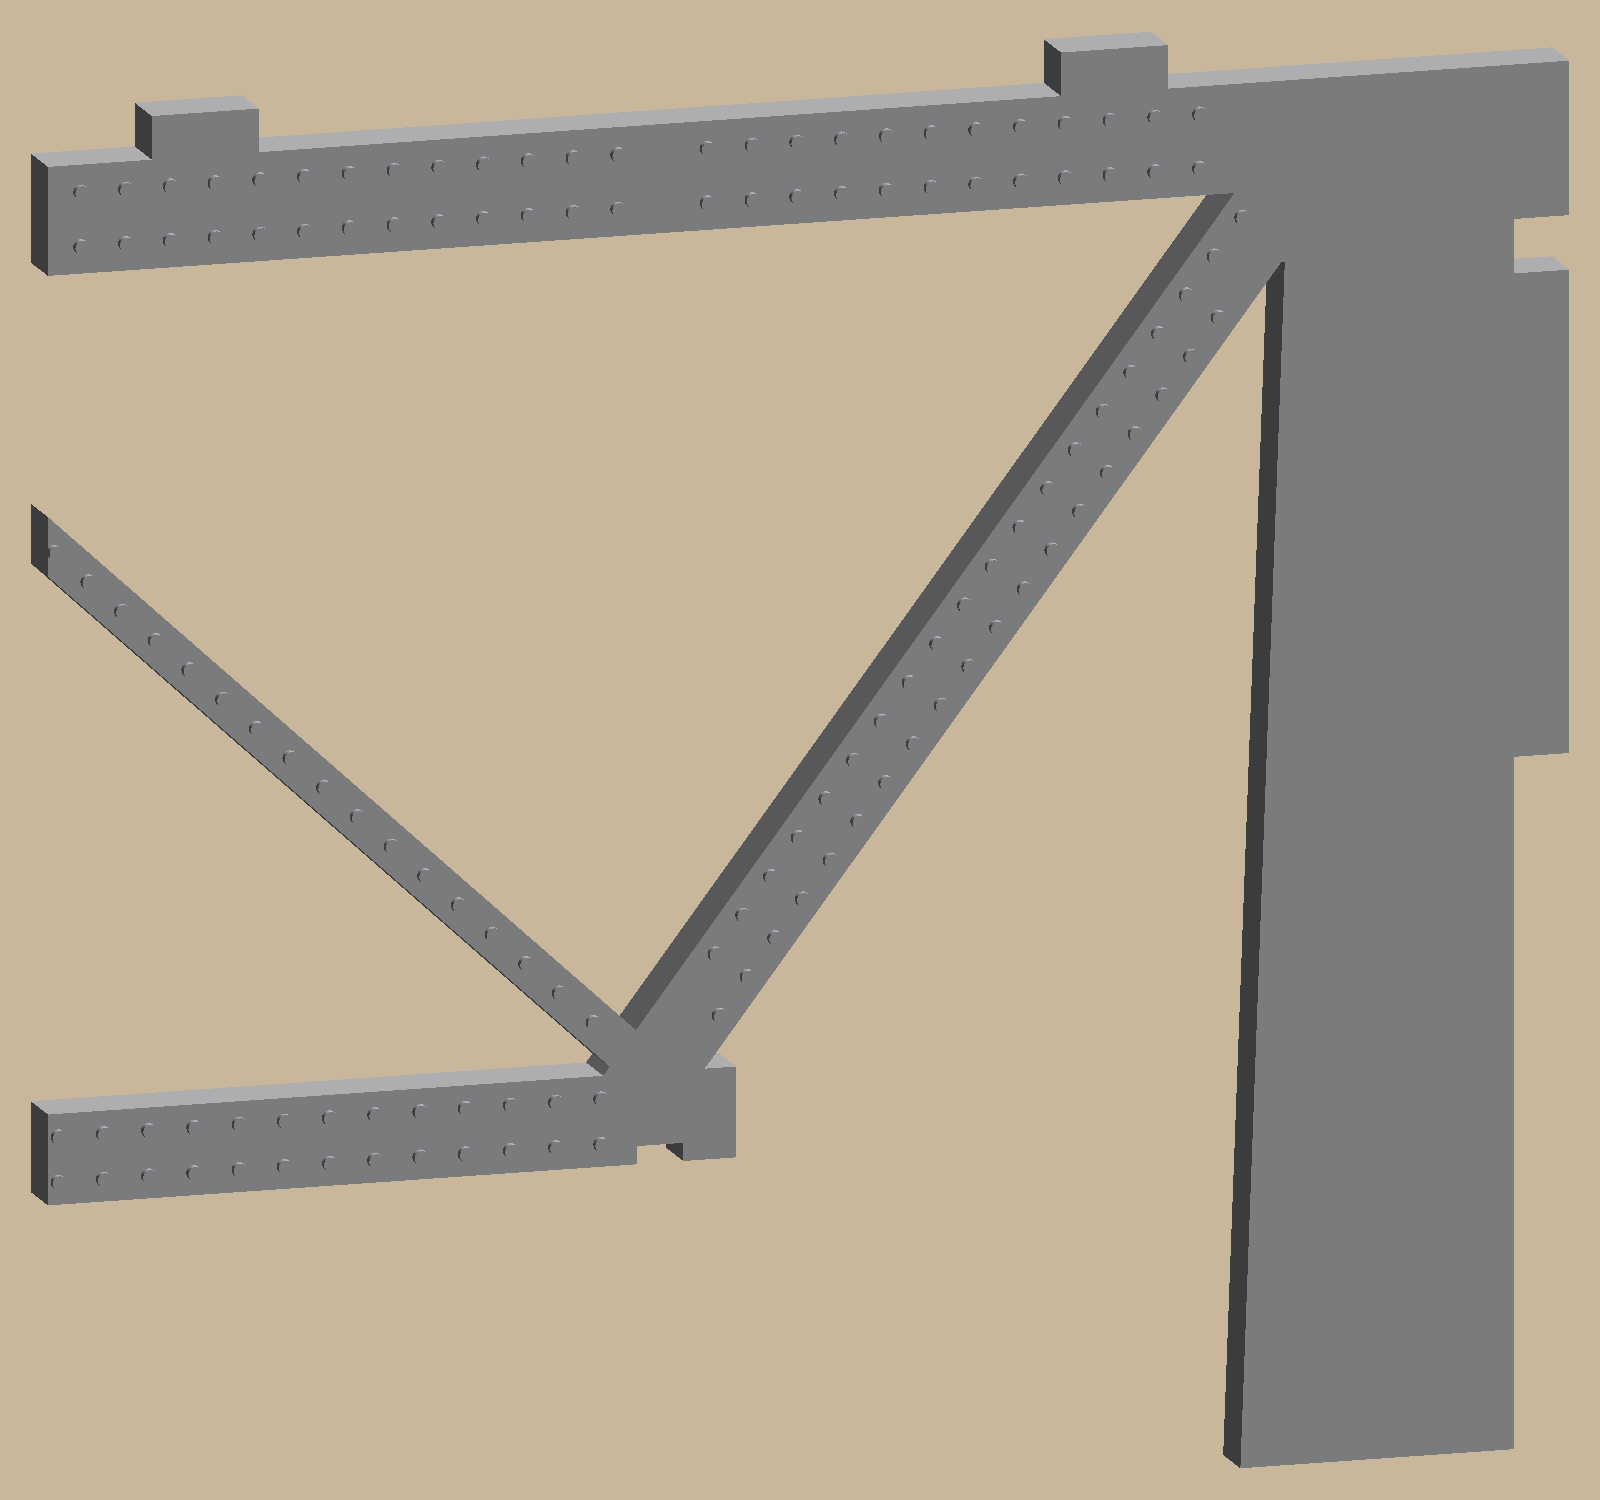
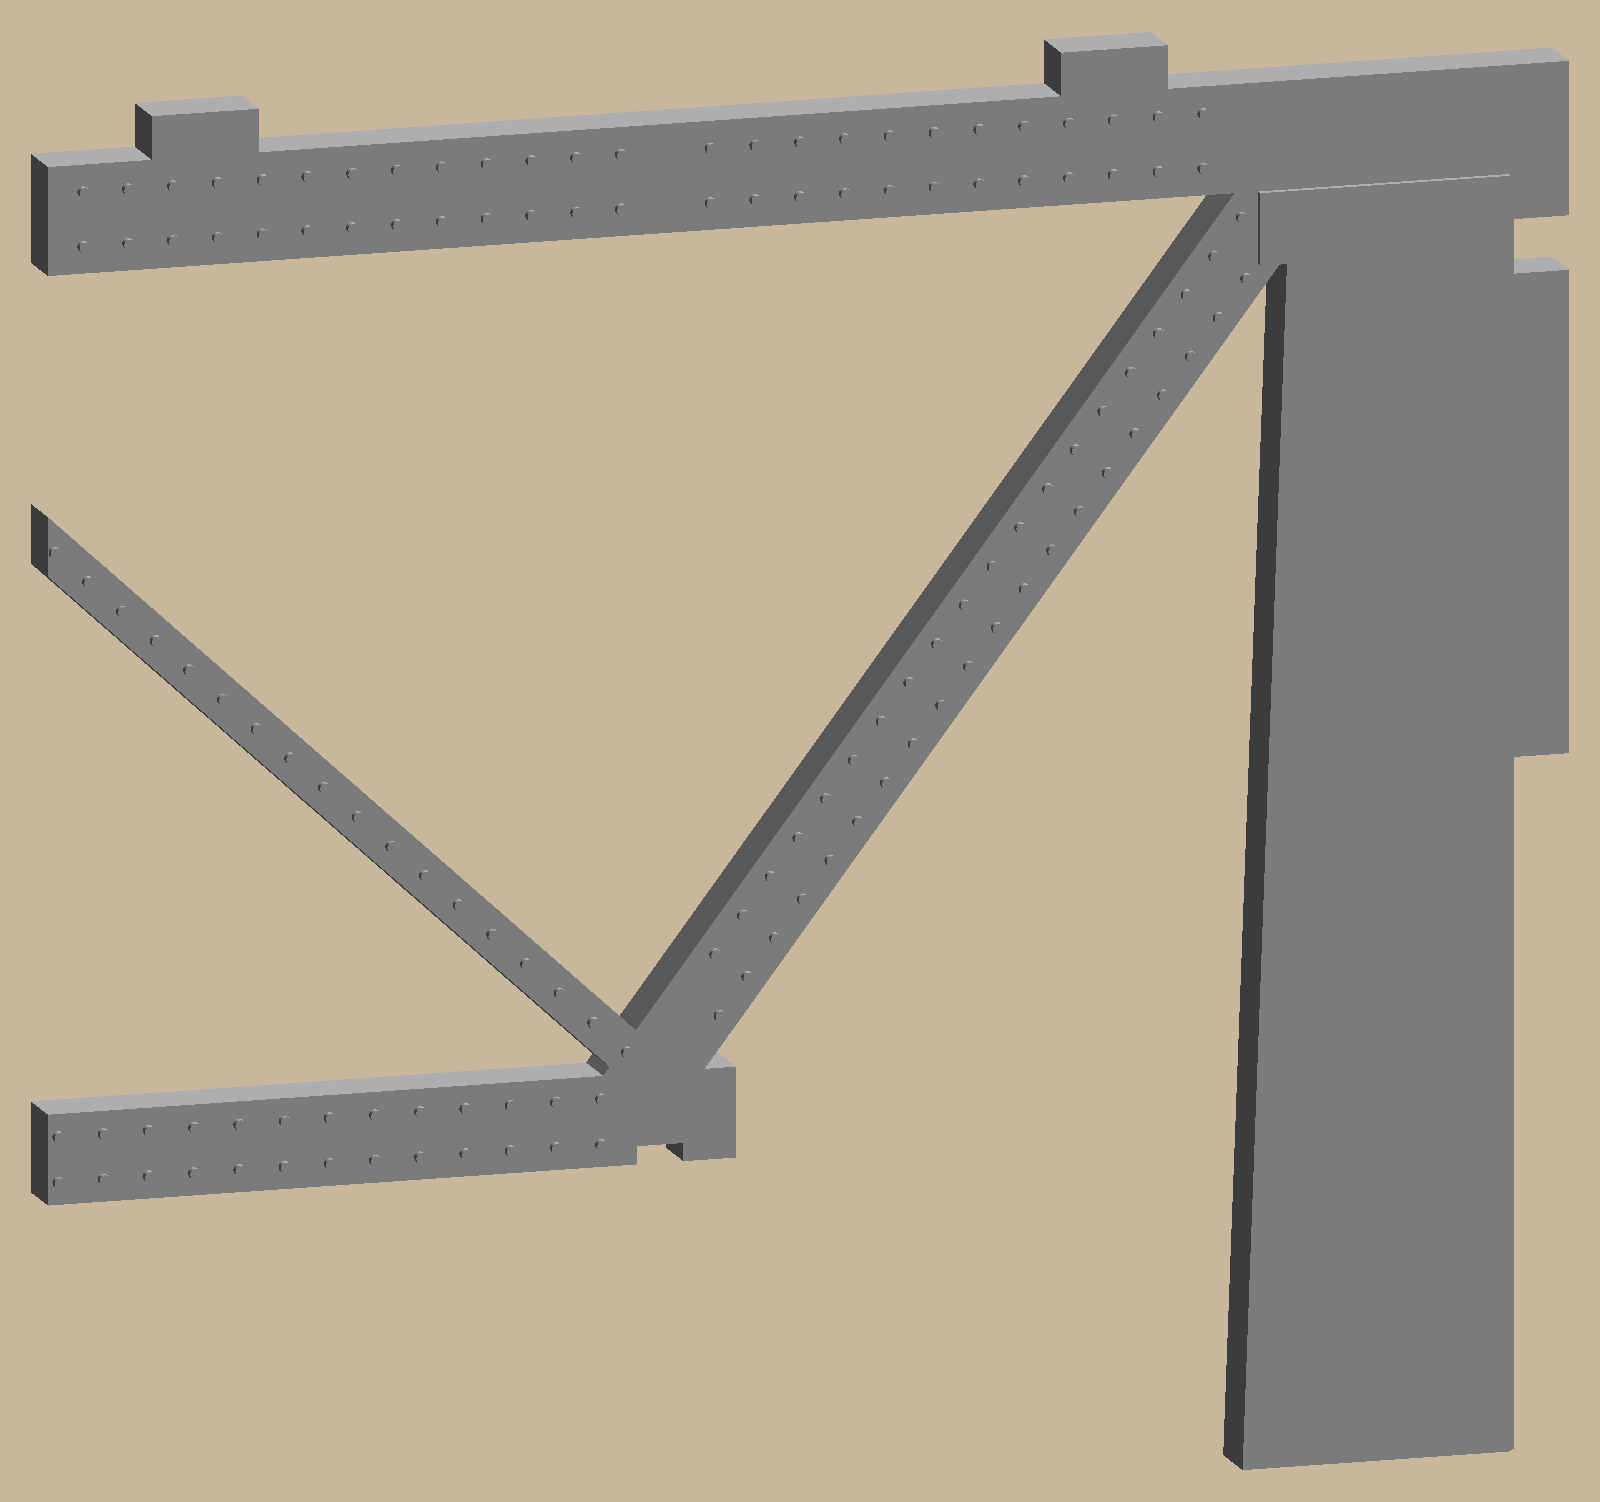
Railroad: fit-test picks (keystone, tab slots, 0.6 mm rivets) and a latch coupon
From the first fit-test print (2026-10-26):
- Keystone socket: variant 1, no clearance (fit_key; 0.05 and 0.10 were loose). README: key bed side to
  the panel's bed side.
- Tie-ladder tab slots: variant 1, 0.10 mm (fit_tab). Grooves, brackets and rods keep fit_slide until tried.
- Rivet heads 0.6 mm (the 0.8 and 1.0 strips came out rough).
- The coupon's latch flexed so much the stub fell out: `build latch-test` makes a latch coupon with the
  spring slot at 40/25/15 mm/none (latch_finger_len = 0 drops it) and two pier stubs.

diff --git a/examples/near-ceiling-track/tests/test_fit_test.py b/examples/near-ceiling-track/tests/test_fit_test.py
@@ -36,9 +36,46 @@ def test_rivet_strips_carry_two_rows_of_heads_of_their_size(k):
     assert bb.max.Z == pytest.approx(P.panel_t + P.printer.layers(P.rivet_h))
 
 
-def test_rivet_sizes_bracket_the_trusses():
-    assert min(fit_test.RIVET_SIZES) < P.rivet_d < max(fit_test.RIVET_SIZES)
-    assert P.rivet_d in fit_test.RIVET_SIZES
+def test_the_parts_use_the_variants_picked_from_the_print():
+    """2026-10-26 fit test: keystone 1, tab slot 1, rivets 1 (0.6 mm: the larger heads didn't come out smooth)."""
+    assert P.fit_key == fit_test.KEY_FITS[0]
+    assert P.fit_tab == fit_test.SLOT_FITS[0]
+    assert P.rivet_d == fit_test.RIVET_SIZES[0]
+
+
+def test_tie_ladder_tab_slot_is_the_picked_fit():
+    """Across the ladder, a tab slot is the truss panel plus fit_tab."""
+    from build123d import Align, Box, Pos
+    from hotrain import layout as L
+    from hotrain.params import INCH
+    from hotrain.parts import tie_ladder
+    bays = [16 * INCH]
+    seg = L.segments(P, bays)[1]
+    lad = tie_ladder.make(P, bays, seg)
+    x = next(x for x in L.tab_xs(P, bays) if seg.x_start + 5 < x < seg.x_end - 5) - seg.x_start
+    y_rail = max(P.rail_ys) + P.tie_l / 2  # the slot sits under the rail, in the runner
+    probe = Pos(x - 0.05, y_rail - 5, 0.3) * Box(0.1, 10, 0.2, align=(Align.MIN,) * 3)
+    pieces = sorted((s.bounding_box() for s in (lad & probe).solids()), key=lambda b: b.min.Y)
+    gaps = [b.min.Y - a.max.Y for a, b in zip(pieces, pieces[1:])]
+    assert min(gaps, key=lambda g: abs(g - P.panel_t - P.fit_tab)) == pytest.approx(P.panel_t + P.fit_tab, abs=0.01)
+
+
+def test_keystone_socket_is_the_picked_fit():
+    """At the panel edge the socket opens exactly the key's waist plus fit_key each side."""
+    from dataclasses import replace
+    from build123d import Align, Box, Pos
+    from hotrain import layout as L
+    from hotrain.params import INCH
+    from hotrain.parts import arch_half, keystone
+    D = replace(P, run_style="deck_truss")
+    b = 16 * INCH
+    part = arch_half.make(replace(D, rivet_d=0.0, pier_relief=0.0), b)
+    h, z = L.half_len(b), keystone.key_z(D) + D.pier_depth
+    probe = Pos(h - 0.06, z - 10, 0.5) * Box(0.05, 20, 1, align=(Align.MIN,) * 3)
+    pieces = sorted((s.bounding_box() for s in (part & probe).solids()), key=lambda bb: bb.min.Y)
+    gap = pieces[1].min.Y - pieces[0].max.Y
+    k = keystone.key_params(D)
+    assert gap == pytest.approx(k.key_waist + 2 * D.fit_key, abs=0.05)
 
 
 

diff --git a/examples/near-ceiling-track/hotrain/parts/fit_test.py b/examples/near-ceiling-track/hotrain/parts/fit_test.py
@@ -18,6 +18,7 @@ ROD_SEAT_FITS = (0.1, 0.2, 0.3)  # clearance of the corner deck's rod grooves on
 RIVET_SIZES = (0.6, 0.8, 1.0)  # deck-truss rivet head diameters: smaller -> larger (rivet_d is the middle one)
 RIVET_STRIP = (40.0, 10.0)  # strip length, width
 LATCH_DEPTH = 45.0
+LATCH_SLOTS = (40.0, 25.0, 15.0, 0.0)  # latch coupon: spring slot length per variant; 1 = today's, 4 = none
 LATCH_NOTCH = 1.0  # the coupon's short latch sample keeps a shallow pier notch
 
 
@@ -58,13 +59,26 @@ def key(p: Params) -> Part:
     return keystone.make(p)
 
 
-def latch_block(p: Params) -> Part:
-    """A short deck block with one pier slot and the latch, depth LATCH_DEPTH."""
+def latch_block(p: Params, n: int = 0) -> Part:
+    """A short deck block with one pier slot and the latch, depth LATCH_DEPTH; n notches on its bottom edge."""
     sw = bracket.slot_w(p)
     y0, y1 = -sw / 2 - 6, sw / 2 + p.latch_finger_w + p.latch_relief + 4
     cuts, hook = bracket.slots_and_latch(p, -LATCH_DEPTH + LATCH_NOTCH, (0.0,))
-    prof = (rect(y0, y1, -LATCH_DEPTH - 4, 0) - cuts) + hook
+    prof = (rect(y0, y1, -LATCH_DEPTH - 4, 0) - cuts - marks(n, y0 + 1.0, -LATCH_DEPTH - 4)) + hook
     return extrude(Pos(-y0, LATCH_DEPTH + 4) * prof, p.bracket_t)
+
+
+def latch_variant(p: Params, slot: float, n: int) -> Part:
+    """The latch with a spring slot `slot` mm long (0 = none), n notches."""
+    return latch_block(replace(p, latch_finger_len=slot), n)
+
+
+def latch_coupon(p: Params = P) -> Compound:
+    """The latch coupon: the LATCH_SLOTS variants (1-4 notches) and two pier stubs, flat on one bed."""
+    pieces = [Pos(22.0 * i, 0, 0) * latch_variant(p, slot, i + 1) for i, slot in enumerate(LATCH_SLOTS)]
+    x = 22.0 * len(LATCH_SLOTS) + 4
+    pieces += [Pos(x + 28.0 * k, 0, 0) * latch_pier(p) for k in range(2)]
+    return Compound(children=pieces)
 
 
 def latch_pier(p: Params) -> Part:
@@ -112,7 +126,7 @@ def make(p: Params = P) -> Compound:
     for i, f in enumerate(KEY_FITS):
         pieces.append(Pos(110 + 22 * i, 0, 0) * key_block(p, f, i + 1))
     pieces.append(Pos(110, 35, 0) * key(p))
-    pieces.append(Pos(60, 60, 0) * latch_block(p))
+    pieces.append(Pos(60, 60, 0) * latch_block(p))  # (the latch coupon tries spring-slot lengths)
     pieces.append(Pos(110, 60, 0) * latch_pier(p))
     for i, f in enumerate(ROD_SEAT_FITS):
         pieces.append(Pos(180 + 25 * i, 0, 0) * rod_seat_sample(p, f, i + 1))

diff --git a/examples/near-ceiling-track/hotrain/build.py b/examples/near-ceiling-track/hotrain/build.py
@@ -15,6 +15,7 @@
     uv run python -m hotrain.build starter --run-style deck_truss   # out/starter: one 16" bay + fit-test coupon
     uv run python -m hotrain.build wire-test    # out/wire_test: stainless wire rail curve test plates (0.08 mm layers)
     uv run python -m hotrain.build makerworld   # out/makerworld: one sliced project per print profile, to upload
+    uv run python -m hotrain.build latch-test   # out/latch_test: four latch spring-slot lengths + two pier stubs
 Options: --out DIR (default out), --mesh (also STL), --preview (also SVG line drawings)
 """
 import argparse
@@ -258,6 +259,14 @@ def cmd_render(p: Params, out: Path) -> list[Path]:
     return paths
 
 
+def cmd_latch_test(p: Params, out: Path) -> Path:
+    """The latch coupon on its own plate: out/latch_test/."""
+    from hotrain.plates import Plate
+    d = out / "latch_test"
+    write_plates([Plate("latch_test", 1, [("latch_test", fit_test.latch_coupon(p))])], d, d / "plates.csv", p=p)
+    return d
+
+
 def cmd_fit_test(p: Params, out: Path, mesh: bool, preview: bool) -> None:
     export(fit_test.make(p), out, "fit_test", mesh, preview)
 
@@ -275,7 +284,7 @@ def params_from_args(a: argparse.Namespace) -> Params:
 def main(argv: list[str] | None = None) -> int:
     ap = argparse.ArgumentParser(prog="hotrain.build", description=__doc__.splitlines()[0])
     ap.add_argument("command", choices=["all", "parts", "assembly", "fit-test", "plates", "corners", "room", "show", "glb", "web",
-                                        "check", "starter", "render", "wire-test", "makerworld"])
+                                        "check", "starter", "render", "wire-test", "makerworld", "latch-test"])
     ap.add_argument("target", nargs="?", default="room", help="for show: room | run | inside | bridge | fit-test")
     ap.add_argument("--out", default="out")
     ap.add_argument("--mesh", action="store_true")
@@ -315,6 +324,9 @@ def main(argv: list[str] | None = None) -> int:
     if a.command == "starter":
         d = cmd_starter(p, out)
         print(f"wrote {d}/ (plates.csv lists what to print and how many)")
+        return 0
+    if a.command == "latch-test":
+        print(f"wrote {cmd_latch_test(p, out)}/ (one plate: latch_test)")
         return 0
     if a.command == "makerworld":
         d = cmd_makerworld(p, out)

diff --git a/examples/near-ceiling-track/tests/test_latch_test.py b/examples/near-ceiling-track/tests/test_latch_test.py
@@ -1,0 +1,43 @@
+"""Latch coupon: four pier-slot latches, identical but for the spring slot beside the finger (40 / 25 / 15 mm / none,
+marked 1-4 notches), and two pier stubs. The first fit test's latch flexed so much the stub fell out."""
+import pytest
+
+from cadkit.checks import printable_problems
+from hotrain.params import P
+from hotrain.parts import fit_test
+
+
+def test_variant_one_is_todays_latch_and_four_has_no_slot():
+    assert fit_test.LATCH_SLOTS[0] == P.latch_finger_len
+    assert fit_test.LATCH_SLOTS[-1] == 0.0
+    assert list(fit_test.LATCH_SLOTS) == sorted(fit_test.LATCH_SLOTS, reverse=True)
+
+
+def test_each_variant_cuts_its_slot_and_nothing_else():
+    """Blocks differ only by the spring slot: latch_relief wide, the variant's length deep, bracket_t thick."""
+    solid = fit_test.latch_variant(P, 0.0, 0).volume
+    for slot in fit_test.LATCH_SLOTS:
+        removed = solid - fit_test.latch_variant(P, slot, 0).volume
+        assert removed == pytest.approx(P.latch_relief * slot * P.bracket_t, rel=0.03, abs=0.01)
+
+
+def test_variants_marked_distinctly():
+    vols = [fit_test.latch_variant(P, fit_test.LATCH_SLOTS[0], n).volume for n in (1, 2, 3, 4)]
+    assert all(a - b > 0.3 for a, b in zip(vols, vols[1:]))
+
+
+def test_coupon_prints_on_one_bed():
+    c = fit_test.latch_coupon(P)
+    assert len(c.solids()) == len(fit_test.LATCH_SLOTS) + 2  # four latches, two pier stubs
+    bb = c.bounding_box()
+    assert bb.max.X <= P.bed_usable and bb.max.Y <= P.bed_usable
+    for s in c.solids():
+        assert printable_problems(s, P.printer) == []
+
+
+def test_build_writes_the_latch_plate(tmp_path):
+    from cadkit import slicers
+    from hotrain import build
+    assert build.main(["latch-test", "--out", str(tmp_path)]) == 0
+    assert (tmp_path / "latch_test" / f"latch_test{slicers.active().project_suffix}").exists()
+    assert "latch_test" in (tmp_path / "latch_test" / "plates.csv").read_text(encoding="utf-8")

diff --git a/examples/near-ceiling-track/hotrain/params.py b/examples/near-ceiling-track/hotrain/params.py
@@ -77,7 +77,7 @@ class Params:
     dt_key_head: float = 8.0
     dt_key_waist: float = 4.5
     dt_lap: float = 1.0  # members overlap so joints are areas (3MF-safe)
-    rivet_d: float = 0.8  # deck truss rivet heads on the room face: smallest round bump the 0.4 nozzle prints
+    rivet_d: float = 0.6  # deck truss rivet heads on the room face: fit-test pick (0.8 and 1.0 came out rough)
     rivet_h: float = 0.4  # two 0.2 mm layers (snapped to your layers)
     rivet_pitch: float = 2.5  # along each member row
     rivet_margin: float = 0.2  # heads stay this far inside a member's edges
@@ -220,6 +220,8 @@ class Params:
     # fits
     fit_slide: float = 0.20
     fit_snap: float = 0.05
+    fit_key: float = 0.0  # keystone in its socket: fit-test variant 1 (2026-10-26; 0.05 and 0.10 were loose)
+    fit_tab: float = 0.10  # truss tab into the tie ladder's slot: fit-test variant 1 (0.10 and 0.20 both fit)
 
     # printer: yours, from cadkit.settings (CADKIT_BED... or cadkit.toml); with nothing set, the A1's 256 x 256 mm.
     # Half spans and ladders are sized to fit bed_usable; a smaller bed fails the fit tests with the numbers.

diff --git a/examples/near-ceiling-track/hotrain/parts/arch_half.py b/examples/near-ceiling-track/hotrain/parts/arch_half.py
@@ -76,7 +76,7 @@ def deck_profile(p: Params, bay_len: float) -> Sketch:
     for u in posts[1:]:
         adds.append(rect(u - p.dt_vert_w / 2, u + p.dt_vert_w / 2, zb - lap, -tb + lap))
     more, cuts = _shared(p, bay_len)
-    cuts.append(Pos(h, keystone.key_z(p)) * butterfly(keystone.key_params(p), p.fit_snap))
+    cuts.append(Pos(h, keystone.key_z(p)) * butterfly(keystone.key_params(p), p.fit_key))
     return (Sketch() + adds + more) - cuts
 
 
@@ -105,7 +105,7 @@ def arch_profile(p: Params, bay_len: float) -> Sketch:
         adds.append(rect(u - p.post_w / 2, u + p.post_w / 2, L.rib_low(p, bay_len, u) + 1, -p.top_band_h / 2))
     more, cuts = _shared(p, bay_len)
     adds += more
-    cuts.append(Pos(h, -cd / 2) * butterfly(p, p.fit_snap))  # keystone socket
+    cuts.append(Pos(h, -cd / 2) * butterfly(p, p.fit_key))  # keystone socket
     return (Sketch() + adds) - cuts
 
 

diff --git a/examples/near-ceiling-track/hotrain/parts/bracket.py b/examples/near-ceiling-track/hotrain/parts/bracket.py
@@ -17,7 +17,8 @@ def slots_and_latch(p: Params, slot_bottom: float, ys: tuple) -> tuple[list, Ske
     cuts = [rect(y - sw / 2, y + sw / 2, slot_bottom, 1) for y in ys]
     wall = max(ys) + sw / 2  # room-side wall of the room-side slot
     relief = wall + p.latch_finger_w
-    cuts.append(rect(relief, relief + p.latch_relief, -p.latch_finger_len, 1))
+    if p.latch_finger_len > 0:  # the spring slot that lets the finger flex; 0 = a rigid latch
+        cuts.append(rect(relief, relief + p.latch_relief, -p.latch_finger_len, 1))
     zb = -p.latch_top - p.latch_win_h + 0.5
     e = p.latch_engage
     hook = poly((wall + 0.05, zb), (wall - e, zb), (wall - e, zb + 0.8), (wall + 0.05, zb + 0.8 + e))

diff --git a/examples/near-ceiling-track/hotrain/parts/tie_ladder.py b/examples/near-ceiling-track/hotrain/parts/tie_ladder.py
@@ -50,7 +50,7 @@ def bodies(p: Params, ties: list, x_start: float, x_end: float, tab_xs: list[flo
             s = 1 if y > 0 else -1
             a, b = y + s * g, y + s * (p.runner_w / 2 + 0.01)
             cuts.append(rect(nx0, nx1, min(a, b), max(a, b)))
-    tl, tw = (p.tab_len + p.fit_slide) / 2, (p.panel_t + p.fit_slide) / 2
+    tl, tw = (p.tab_len + p.fit_tab) / 2, (p.panel_t + p.fit_tab) / 2
     for x in tab_xs:
         if x_start + tl < x < x_end - tl:
             cuts += [rect(x - tl, x + tl, y - tw, y + tw) for y in p.rail_ys]

diff --git a/examples/near-ceiling-track/README.md b/examples/near-ceiling-track/README.md
@@ -73,6 +73,9 @@ A whole-room file takes a few minutes to translate.
 - Bambu A1 (256 × 256 mm bed), PETG, 0.4 mm nozzle, 0.2 mm layers, **no supports**.
 - **Print `fit_test` first.** Pick the variant of each joint (1/2/3 notches) that fits, then retune `fit_slide`,
   `fit_snap` and `rail_base_w` in `hotrain/params.py` and rebuild.
+  - `uv run python -m hotrain.build latch-test` writes a small latch coupon: four latches whose spring slot is
+    40/25/15 mm/none (1-4 notches) and two pier stubs. Pick the one that clicks and holds, and can still be
+    unlatched.
   - The three rivet strips (1/2/3 notches = 0.6/0.8/1.0 mm heads) show how the deck truss rivets come out. If
     you like another size better, set `rivet_d`; if PETG strings between the heads, fix that before printing
     panels.
@@ -122,7 +125,7 @@ uv run python -m hotrain.build wire-test   # out/wire_test: plates, plates.csv, 
 
 <img src="docs/images/rivets_closeup.png" width="45%" alt="Close-up of a deck truss end: rows of small round rivet heads along the chords, end post and diagonals; the concrete pier is bare">
 
-The deck truss has gray rivet heads on its room face: 0.8 mm dots, two layers proud, in rows along every member.
+The deck truss has gray rivet heads on its room face: 0.6 mm dots, two layers proud, in rows along every member.
 The pier stays bare, and its concrete face stands two layers proud of the steel so the two read as different
 materials. Each panel prints one normal half and one mirror-image half (`…_start`), so both halves show
 their rivets to the room. Set `rivet_d = 0` in `hotrain/params.py` for flat panels. The corner trusses have none
@@ -135,6 +138,9 @@ yet: their room face prints against the bed.
 2. **On the bench:**
    - Join each side's two truss halves with the bow-tie keys: one `arch_half_…` and one `arch_half_…_start` (its
      mirror image), **rivet side out toward the room**. Both panels of a bay are built the same way.
+   - Push each key in with its **bed side (the side that was down on the printer) on the panel's bed side** (the
+     side without rivets). Printed parts are a touch wider at the bed, so bed to bed is a tight fit; flipped, it's
+     loose.
    - Slide the cross-frames up onto both panels at the posts. They only go in from below.
    - Glue the cross-frames (and optionally the keys), making one rigid box.
 3. **Hang the box:** drop it into the brackets. The half-lap notches seat and the latches click.

diff --git a/examples/near-ceiling-track/docs/specs/2026-10-12-arch-deck-shelf-design.md b/examples/near-ceiling-track/docs/specs/2026-10-12-arch-deck-shelf-design.md
@@ -221,3 +221,16 @@ Only after this passes: batch-print the run.
   `build makerworld` slices five print profiles for one MakerWorld model: starter bay (deck truss, arch), corners
   (pony, bowstring), wire-rail test.
 
+## 15. Amendments (2026-10-26): fit-test results
+
+- **Keystone: variant 1, no clearance** (`fit_key = 0.0`; 0.05 and 0.10 were loose). The key fits tight when its bed
+  side meets the panel's bed side, and loose flipped. The README says to match bed side to bed side.
+- **Tab slots: variant 1, 0.10 mm** (`fit_tab`; 0.10 and 0.20 both fit, and the user chose the tighter).
+- Only the keystone and tab slots get their own fits. The rail grooves, brackets, cross-frames and rods keep
+  `fit_slide` (0.20) until their samples are tried: the tie-plate grooves need the rail, the rod seats a 1/4" rod.
+- **Latch:** the coupon's pier stub falls out of the fork. The user thinks the hook's size is right and the finger
+  flexes too much. A latch coupon (`build latch-test`) tries the spring slot at 40 (today's), 25 and 15 mm, and
+  none (1-4 notches), with two pier stubs. Fingers are stiffer the shorter the slot, about 1/length³. The user
+  expects PETG to give enough to unlatch even with no slot. `latch_finger_len = 0` drops the slot in the
+  brackets.
+

diff --git a/examples/near-ceiling-track/docs/specs/2026-10-13-deck-truss-design.md b/examples/near-ceiling-track/docs/specs/2026-10-13-deck-truss-design.md
@@ -187,4 +187,6 @@ plates and packing, and the bus cradle.
   layers) on the room face, so concrete and steel no longer blend. The raise stops at the top chord's underside.
   It leaves a 3.4 mm strip at the pier centerline flat, because the bracket (or a corner anchor) grips the plain
   3.2 mm pier there and covers that strip anyway. `pier_relief = 0` turns it off.
+- **Rivets 0.6 mm (2026-10-26):** from the fit-test strips, the 0.8 and 1.0 mm heads didn't come out smooth and
+  0.6 did. `rivet_d = 0.6`.
 
